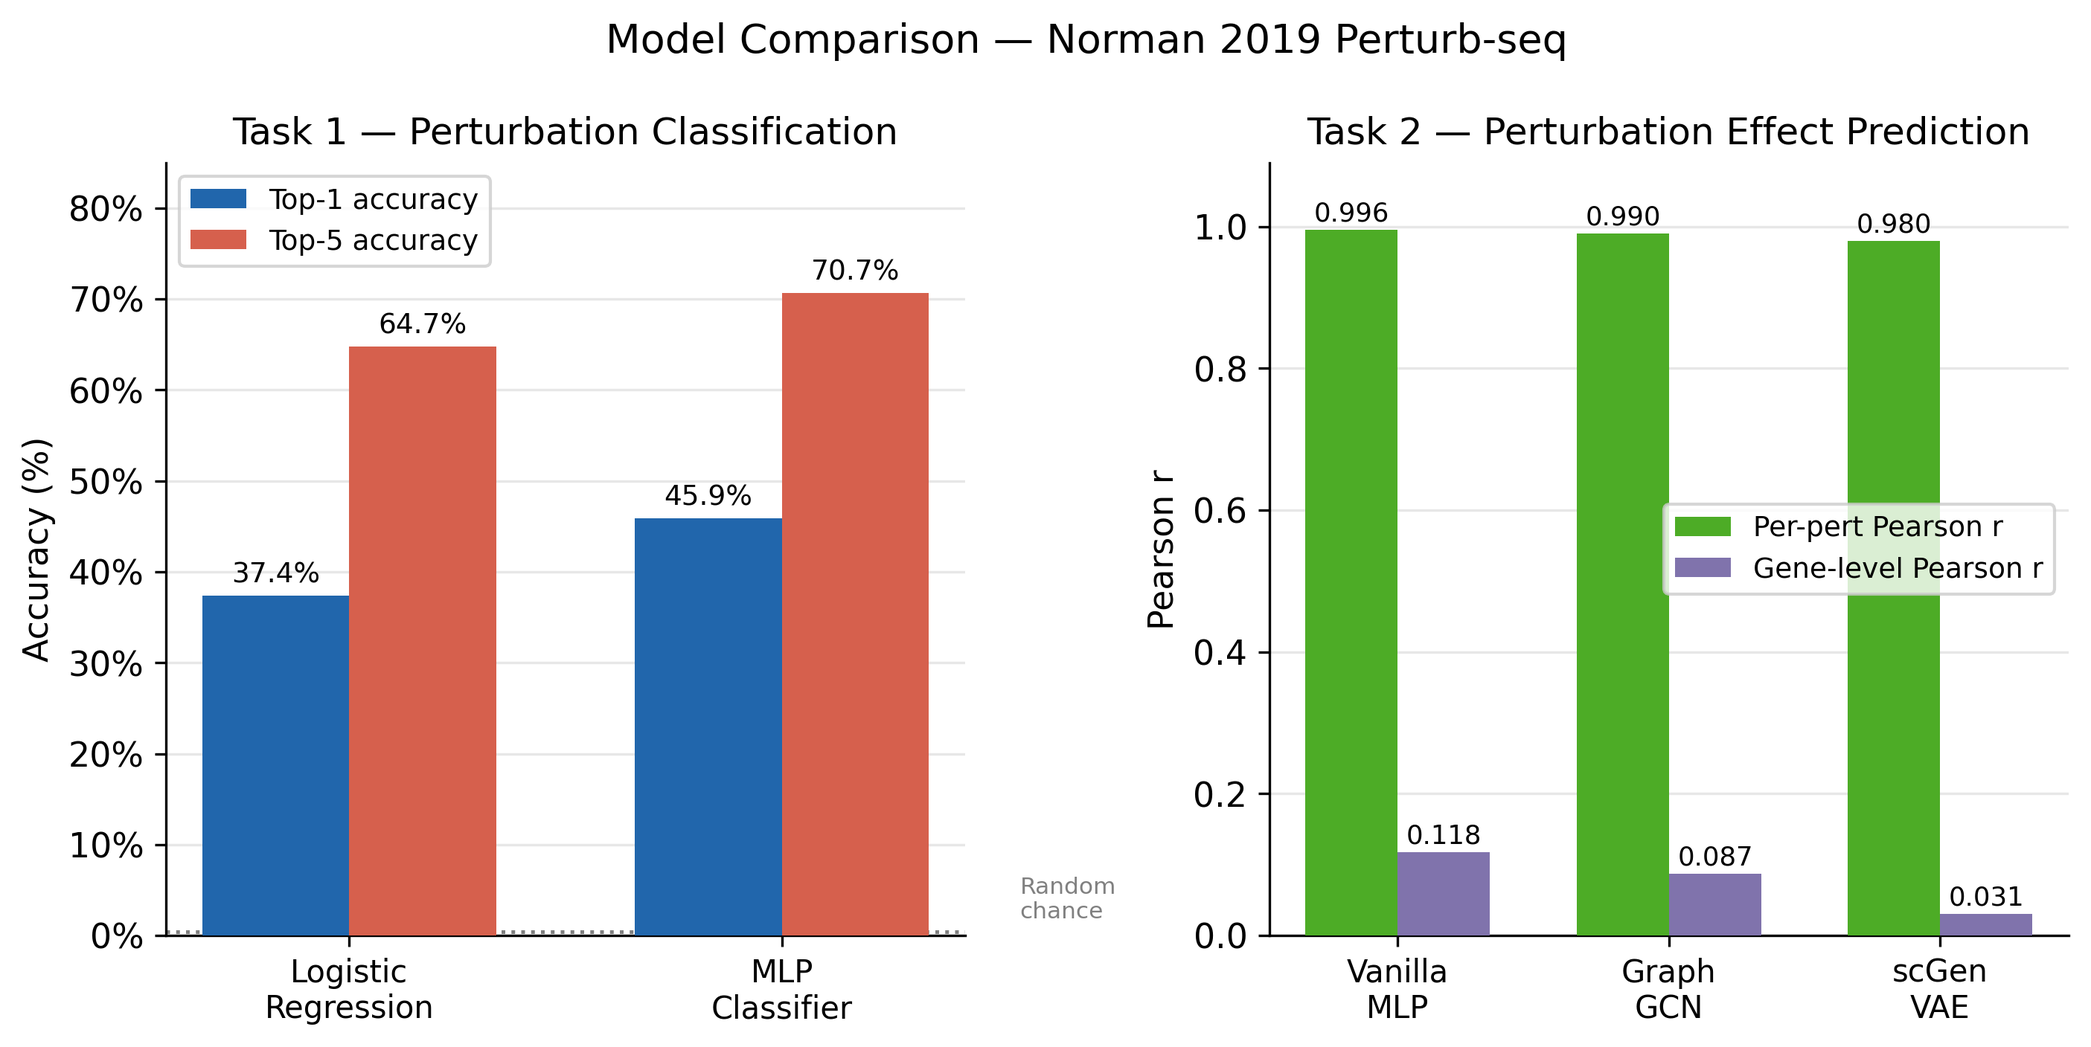
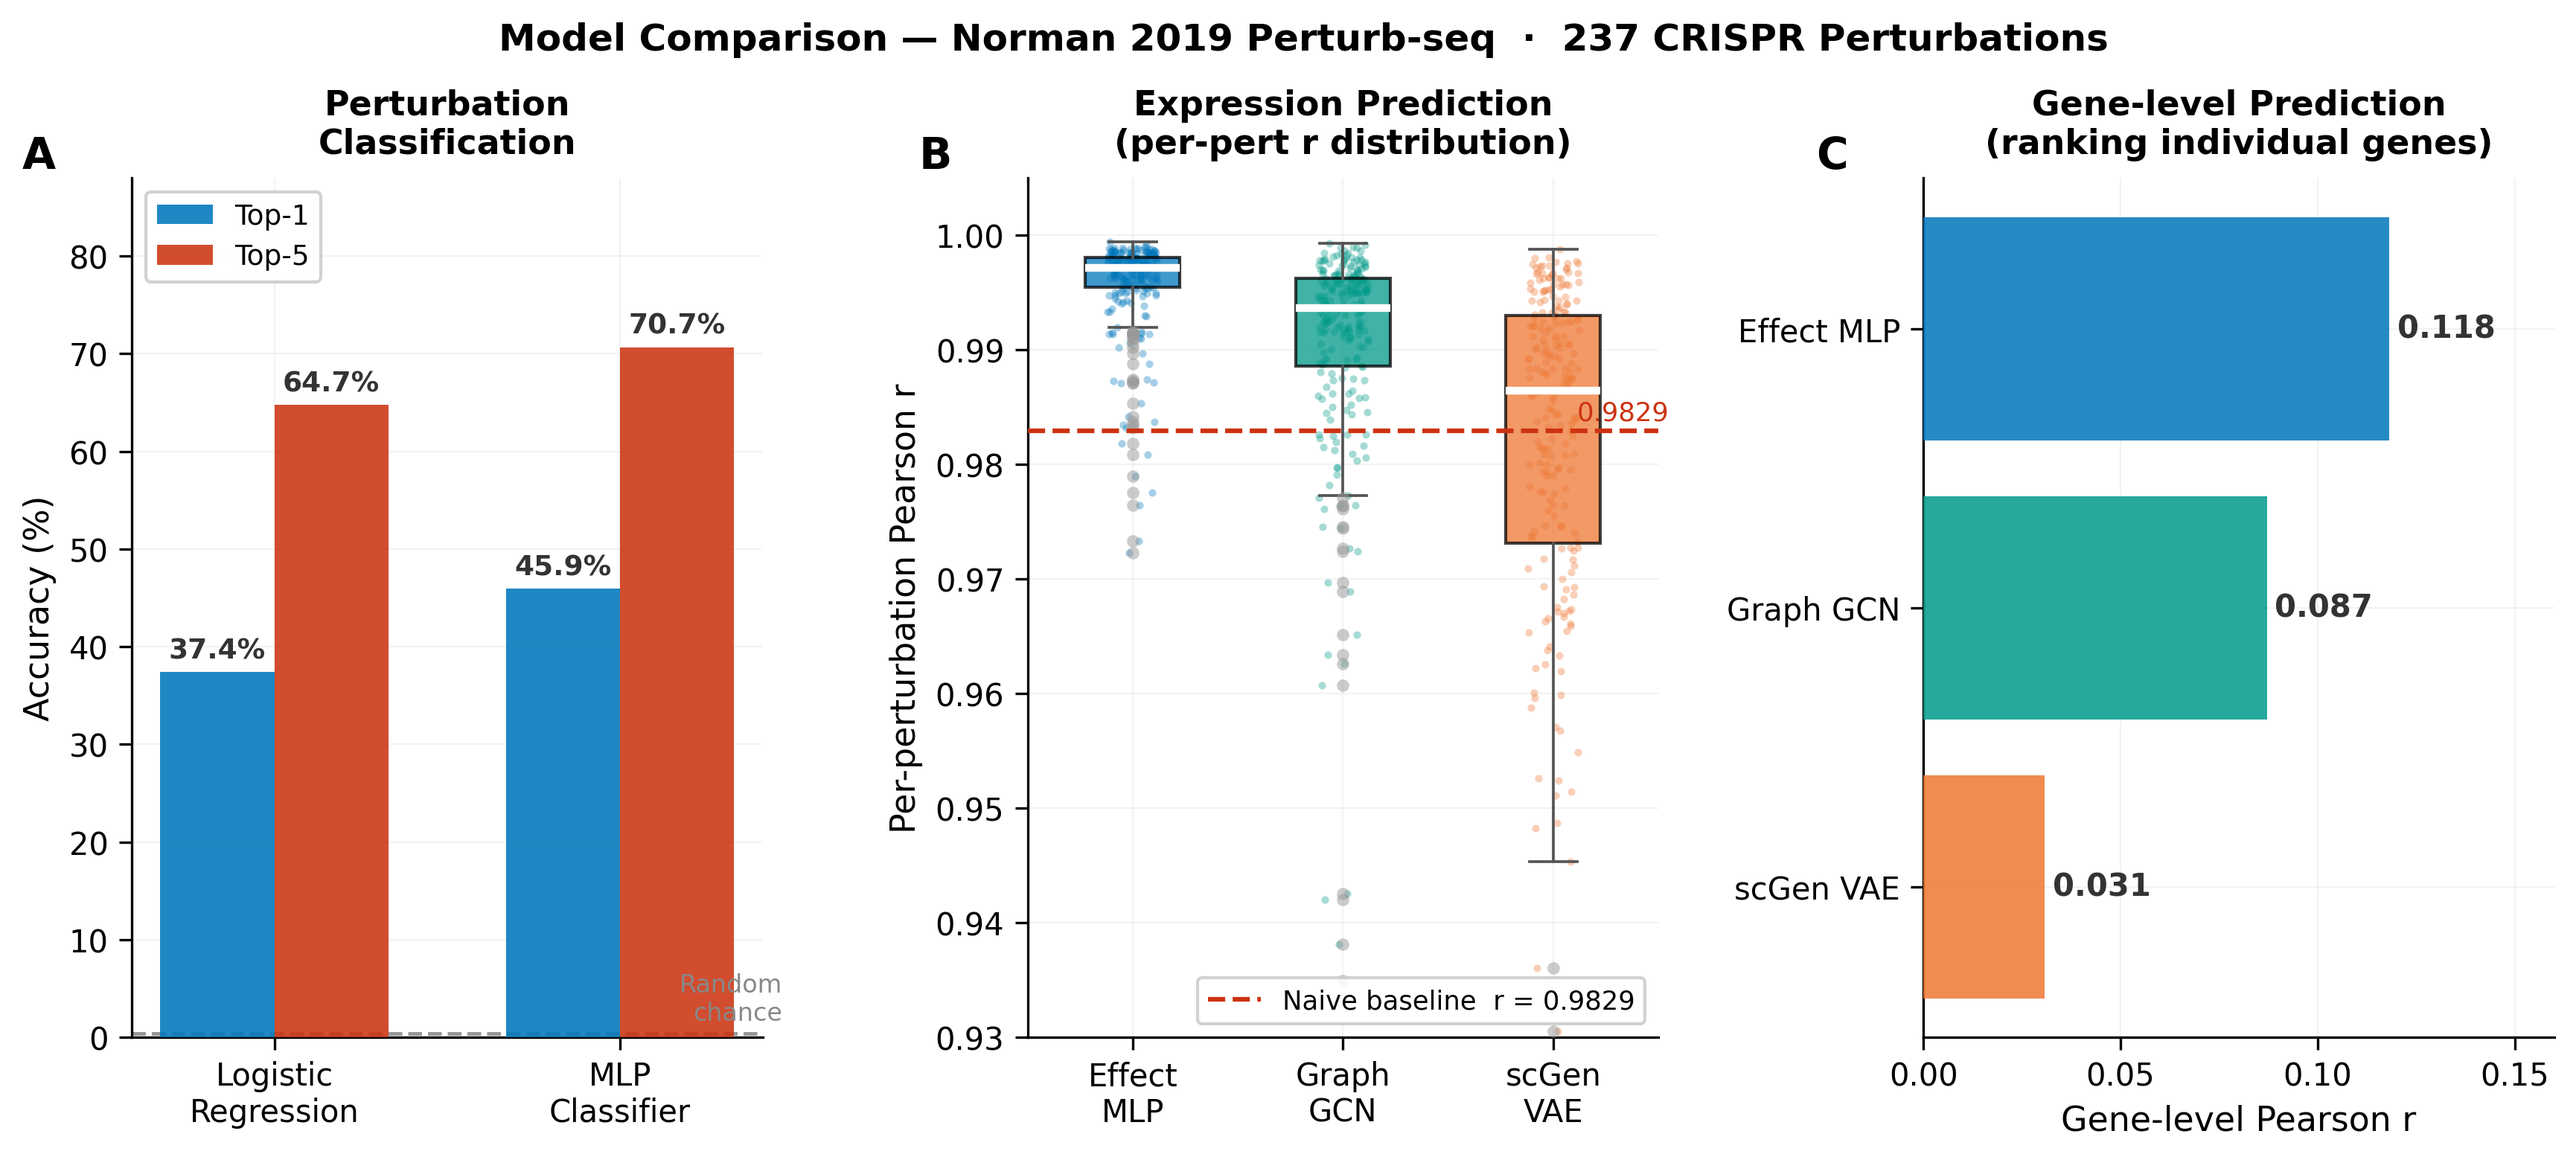
Redesign figures to publication standard with density colouring and distribution plots

diff --git a/src/analysis/visualize_results.py b/src/analysis/visualize_results.py
@@ -19,12 +19,13 @@ import matplotlib
 matplotlib.use("Agg")
 import matplotlib.pyplot as plt
 import matplotlib.ticker as mticker
+import matplotlib.patches as mpatches
 import numpy as np
 import scanpy as sc
 import scipy.sparse as sp
 import torch
 import torch.nn as nn
-from scipy.stats import pearsonr
+from scipy.stats import pearsonr, gaussian_kde
 
 PROJECT_ROOT = Path(__file__).resolve().parents[2]
 sys.path.insert(0, str(PROJECT_ROOT))
@@ -35,18 +36,43 @@ FIG_DIR.mkdir(parents=True, exist_ok=True)
 RES  = PROJECT_ROOT / "data" / "results"
 MODS = PROJECT_ROOT / "data" / "models"
 
-# ── Shared style ────────────────────────────────────────────────────────────
+# ── Publication-grade style (Nature / Cell Research standard) ───────────────
 plt.rcParams.update({
-    "font.family":        "sans-serif",
-    "font.size":          11,
-    "axes.spines.top":    False,
-    "axes.spines.right":  False,
-    "figure.dpi":         150,
-    "savefig.dpi":        300,
-    "savefig.bbox":       "tight",
+    "font.family":          "sans-serif",
+    "font.size":            11,
+    "axes.linewidth":       0.8,
+    "axes.spines.top":      False,
+    "axes.spines.right":    False,
+    "axes.grid":            True,
+    "grid.alpha":           0.25,
+    "grid.linewidth":       0.5,
+    "grid.color":           "#CCCCCC",
+    "xtick.major.width":    0.8,
+    "ytick.major.width":    0.8,
+    "xtick.major.size":     4,
+    "ytick.major.size":     4,
+    "xtick.labelsize":      10,
+    "ytick.labelsize":      10,
+    "figure.facecolor":     "white",
+    "axes.facecolor":       "white",
+    "savefig.dpi":          300,
+    "savefig.bbox":         "tight",
+    "savefig.facecolor":    "white",
+    "legend.frameon":       True,
+    "legend.framealpha":    0.9,
+    "legend.edgecolor":     "#CCCCCC",
+    "legend.fontsize":      9,
 })
-PALETTE = ["#2166AC", "#D6604D", "#4DAC26", "#8073AC",
-           "#E08214", "#018571", "#A6611A", "#80CDC1"]
+
+# Paul Tol "bright" palette — colorblind-friendly, Nature-journal standard
+TOL = ["#0077BB", "#CC3311", "#009988", "#EE7733",
+       "#AA3377", "#33BBEE", "#BBBBBB"]
+
+
+def add_panel_label(ax, label, x=-0.12, y=1.05):
+    """Add bold A/B/C panel label, standard for pharma publications."""
+    ax.text(x, y, label, transform=ax.transAxes,
+            fontsize=14, fontweight="bold", va="top", ha="right")
 
 # ════════════════════════════════════════════════════════════════════════════
 # Helpers
@@ -126,11 +152,10 @@ with torch.no_grad():
     z_ctrl, _ = model.encode(mean_ctrl_t)      # (1, 128) — fixed reference
 
 # ════════════════════════════════════════════════════════════════════════════
-# PLOT 1 — Predicted vs Actual mean gene expression (2×3 panel)
+# PLOT 1 — Density-coloured scatter: Predicted vs Observed (2×3 panel)
 # ════════════════════════════════════════════════════════════════════════════
 print("Generating Plot 1: pred_vs_real …")
 
-# Pick 6 perturbations spanning the full range of per-pert r values
 scgen_m = load_json("scgen_metrics.json")
 pert_r  = {
     p: v["pearson_r"]
@@ -144,13 +169,14 @@ selected = [
     for f in [0.02, 0.18, 0.35, 0.55, 0.75, 0.97]
 ]
 
-fig, axes = plt.subplots(2, 3, figsize=(13, 8.5),
-                          sharex=False, sharey=False)
-axes = axes.flatten()
+fig, axes = plt.subplots(2, 3, figsize=(13, 9), sharex=False, sharey=False)
+fig.patch.set_facecolor("white")
+axes_flat = axes.flatten()
+panel_labels = ["A", "B", "C", "D", "E", "F"]
 
-for i, (pert, ax) in enumerate(zip(selected, axes)):
+for i, (pert, ax) in enumerate(zip(selected, axes_flat)):
     mask     = perts_col == pert
-    mean_obs = X_all[mask].mean(axis=0)          # all 2000 genes
+    mean_obs = X_all[mask].mean(axis=0)
 
     pidx = torch.tensor([pert_to_idx[pert]], dtype=torch.long)
     with torch.no_grad():
@@ -158,38 +184,64 @@ for i, (pert, ax) in enumerate(zip(selected, axes)):
 
     r, _ = pearsonr(mean_pred, mean_obs)
 
-    ax.scatter(
-        mean_obs, mean_pred,
-        s=10, alpha=0.5, color=PALETTE[i],
-        linewidths=0, rasterized=True,
+    # KDE density colouring — standard in pharma/genomics publications
+    xy    = np.vstack([mean_obs, mean_pred])
+    z     = gaussian_kde(xy)(xy)
+    order = z.argsort()   # plot dense points on top
+
+    sc_plot = ax.scatter(
+        mean_obs[order], mean_pred[order],
+        c=z[order], cmap="YlOrRd",
+        s=12, alpha=0.85, linewidths=0, rasterized=True,
     )
 
     # Identity line
-    lo = min(mean_obs.min(), mean_pred.min()) - 0.05
-    hi = max(mean_obs.max(), mean_pred.max()) + 0.05
-    ax.plot([lo, hi], [lo, hi], "k--", lw=1, alpha=0.55, zorder=0)
+    lo = min(mean_obs.min(), mean_pred.min()) - 0.1
+    hi = max(mean_obs.max(), mean_pred.max()) + 0.1
+    ax.plot([lo, hi], [lo, hi], color="#444444", lw=1.2,
+            ls="--", alpha=0.6, zorder=0, label="Identity")
 
-    ax.set_title(f"{pert}\n$r$ = {r:.4f}", fontsize=10.5, fontweight="bold")
-    ax.set_xlabel("Observed mean expression", fontsize=9.5)
-    ax.set_ylabel("Predicted mean expression", fontsize=9.5)
-    ax.tick_params(labelsize=8.5)
-    ax.annotate(f"n = {int(mask.sum())} cells\n2 000 genes",
-                xy=(0.97, 0.04), xycoords="axes fraction",
-                ha="right", va="bottom", fontsize=8, color="#555")
+    # Styled r-value box (top-left)
+    ax.text(0.05, 0.95, f"$r$ = {r:.4f}",
+            transform=ax.transAxes, fontsize=10, fontweight="bold",
+            va="top", ha="left", color="#1A1A1A",
+            bbox=dict(boxstyle="round,pad=0.3", fc="white",
+                      ec="#CCCCCC", alpha=0.9))
+
+    # Cell/gene count (bottom-right, muted)
+    ax.text(0.97, 0.04,
+            f"n = {int(mask.sum()):,} cells  ·  2,000 genes",
+            transform=ax.transAxes, fontsize=8, va="bottom", ha="right",
+            color="#888888")
+
+    ax.set_title(pert, fontsize=10, fontweight="bold", pad=6)
+    ax.set_xlabel("Observed mean expression", fontsize=10)
+    ax.set_ylabel("Predicted mean expression", fontsize=10)
+    ax.set_xlim(lo, hi)
+    ax.set_ylim(lo, hi)
+
+    add_panel_label(ax, panel_labels[i])
+
+# Shared colorbar
+cbar_ax = fig.add_axes([1.01, 0.15, 0.015, 0.7])
+sm = plt.cm.ScalarMappable(cmap="YlOrRd")
+sm.set_array([])
+cb = fig.colorbar(sm, cax=cbar_ax)
+cb.set_label("Point density", fontsize=10)
+cb.ax.tick_params(labelsize=9)
 
 fig.suptitle(
-    "scGen VAE — Predicted vs Observed Mean Gene Expression\n"
-    "Six held-out perturbations spanning the full performance range",
-    fontsize=13, y=1.01,
+    "scGen VAE — Predicted vs Observed Mean Gene Expression",
+    fontsize=13, fontweight="bold", y=1.01,
 )
 plt.tight_layout()
 out1 = FIG_DIR / "pred_vs_real.png"
-fig.savefig(out1)
+fig.savefig(out1, bbox_inches="tight")
 plt.close(fig)
 print(f"  Saved → {out1}")
 
 # ════════════════════════════════════════════════════════════════════════════
-# PLOT 2 — Model comparison bar chart (two task groups)
+# PLOT 2 — Three-panel model comparison (pharma publication style)
 # ════════════════════════════════════════════════════════════════════════════
 print("Generating Plot 2: model_comparison …")
 
@@ -198,71 +250,124 @@ mlp_m   = load_json("mlp_metrics.json")
 eff_m   = load_json("perturbation_effect_metrics.json")
 graph_m = load_json("graph_model_metrics.json")
 
-# Group A — Classification (accuracy)
-clf_models  = ["Logistic\nRegression", "MLP\nClassifier"]
-clf_top1    = [bl_m["accuracy"],       mlp_m["accuracy"]]
-clf_top5    = [bl_m["top5_accuracy"],  mlp_m["top5_accuracy"]]
+# Extract per-perturbation r distributions (not just means)
+def pert_r_dist(metrics: dict) -> list[float]:
+    return [v["pearson_r"] for v in metrics["per_perturbation_eval"].values()
+            if not np.isnan(v["pearson_r"])]
 
-# Group B — Perturbation effect prediction (per-pert Pearson r)
-eff_models  = ["Vanilla\nMLP", "Graph\nGCN", "scGen\nVAE"]
-eff_r       = [
-    eff_m["mean_per_pert_pearson_r"],
-    graph_m["mean_per_pert_pearson_r"],
-    scgen_m["mean_per_pert_pearson_r"],
-]
-eff_gene_r  = [
-    eff_m["mean_gene_pearson_r"],
-    graph_m["mean_gene_pearson_r"],
-    scgen_m["mean_gene_pearson_r"],
-]
+eff_dist   = pert_r_dist(eff_m)
+graph_dist = pert_r_dist(graph_m)
+scgen_dist = pert_r_dist(scgen_m)
+naive_r    = 0.9829   # from baseline_naive.json
 
-fig, (ax1, ax2) = plt.subplots(1, 2, figsize=(11, 4.5),
-                                gridspec_kw={"wspace": 0.38})
+fig, (ax1, ax2, ax3) = plt.subplots(
+    1, 3, figsize=(14, 5),
+    gridspec_kw={"wspace": 0.42},
+)
+fig.patch.set_facecolor("white")
 
-# ── Left: Classification accuracy ──────────────────────────────────────────
-x1    = np.arange(len(clf_models))
-w     = 0.34
-bars1 = ax1.bar(x1 - w/2, [v * 100 for v in clf_top1], w,
-                label="Top-1 accuracy", color=PALETTE[0], zorder=3)
-bars2 = ax1.bar(x1 + w/2, [v * 100 for v in clf_top5], w,
-                label="Top-5 accuracy", color=PALETTE[1], zorder=3)
+# ── Panel A: Classification accuracy ───────────────────────────────────────
+clf_labels = ["Logistic\nRegression", "MLP\nClassifier"]
+top1 = [bl_m["accuracy"] * 100, mlp_m["accuracy"] * 100]
+top5 = [bl_m["top5_accuracy"] * 100, mlp_m["top5_accuracy"] * 100]
 
-for bar in list(bars1) + list(bars2):
+x = np.arange(len(clf_labels))
+w = 0.33
+b1 = ax1.bar(x - w/2, top1, w, color=TOL[0], label="Top-1", zorder=3,
+             linewidth=0, alpha=0.88)
+b2 = ax1.bar(x + w/2, top5, w, color=TOL[1], label="Top-5", zorder=3,
+             linewidth=0, alpha=0.88)
+
+for bar in list(b1) + list(b2):
     h = bar.get_height()
     ax1.text(bar.get_x() + bar.get_width() / 2, h + 0.8,
-             f"{h:.1f}%", ha="center", va="bottom", fontsize=9)
+             f"{h:.1f}%", ha="center", va="bottom", fontsize=9,
+             fontweight="bold", color="#333")
 
-ax1.set_xticks(x1); ax1.set_xticklabels(clf_models, fontsize=10)
+# Random-chance reference
+ax1.axhline(100 / 237, color="#999", ls="--", lw=1.2, zorder=2)
+ax1.text(1.47, 100 / 237 + 0.8, "Random\nchance",
+         fontsize=8, color="#888", va="bottom", ha="right")
+
+ax1.set_xticks(x)
+ax1.set_xticklabels(clf_labels, fontsize=10)
 ax1.set_ylabel("Accuracy (%)", fontsize=11)
-ax1.set_title("Task 1 — Perturbation Classification", fontsize=12)
-ax1.set_ylim(0, 85)
-ax1.yaxis.set_major_formatter(mticker.FormatStrFormatter("%g%%"))
-ax1.legend(fontsize=9)
-ax1.grid(axis="y", alpha=0.3, zorder=0)
-ax1.axhline(100 / 237, color="gray", ls=":", lw=1.2, label="Random")
-ax1.text(1.55, 100 / 237 + 1, "Random\nchance", fontsize=7.5, color="gray", va="bottom")
+ax1.set_ylim(0, 88)
+ax1.set_title("Perturbation\nClassification", fontsize=11, fontweight="bold", pad=8)
+ax1.legend(loc="upper left", fontsize=9)
+add_panel_label(ax1, "A")
 
-# ── Right: Per-perturbation Pearson r ──────────────────────────────────────
-x2 = np.arange(len(eff_models))
-bars3 = ax2.bar(x2 - w/2, eff_r,      w, label="Per-pert Pearson r",  color=PALETTE[2], zorder=3)
-bars4 = ax2.bar(x2 + w/2, eff_gene_r, w, label="Gene-level Pearson r", color=PALETTE[3], zorder=3)
+# ── Panel B: Per-perturbation Pearson r — DISTRIBUTION (box + strip) ───────
+model_names  = ["Effect\nMLP", "Graph\nGCN", "scGen\nVAE"]
+model_colors = [TOL[0], TOL[2], TOL[3]]
+dists        = [eff_dist, graph_dist, scgen_dist]
 
-for bar in list(bars3) + list(bars4):
-    h = bar.get_height()
-    ax2.text(bar.get_x() + bar.get_width() / 2, h + 0.005,
-             f"{h:.3f}", ha="center", va="bottom", fontsize=8.5)
+bp = ax2.boxplot(
+    dists,
+    patch_artist=True,
+    widths=0.45,
+    medianprops=dict(color="white", linewidth=2.5),
+    whiskerprops=dict(color="#555", linewidth=0.9),
+    capprops=dict(color="#555", linewidth=0.9),
+    flierprops=dict(marker="o", markersize=4, alpha=0.5,
+                    markerfacecolor="#999", markeredgewidth=0),
+    zorder=3,
+)
+for patch, color in zip(bp["boxes"], model_colors):
+    patch.set_facecolor(color)
+    patch.set_alpha(0.75)
 
-ax2.set_xticks(x2); ax2.set_xticklabels(eff_models, fontsize=10)
-ax2.set_ylabel("Pearson r", fontsize=11)
-ax2.set_title("Task 2 — Perturbation Effect Prediction", fontsize=12)
-ax2.set_ylim(0, 1.09)
-ax2.legend(fontsize=9)
-ax2.grid(axis="y", alpha=0.3, zorder=0)
+# Jitter strip
+rng = np.random.default_rng(42)
+for xi, (dist, color) in enumerate(zip(dists, model_colors), start=1):
+    jitter = rng.uniform(-0.12, 0.12, len(dist))
+    ax2.scatter(np.full(len(dist), xi) + jitter, dist,
+                s=6, alpha=0.35, color=color, linewidths=0, zorder=2)
 
-plt.suptitle("Model Comparison — Norman 2019 Perturb-seq", fontsize=13, y=1.02)
+# Naive baseline reference
+ax2.axhline(naive_r, color="#CC3311", ls="--", lw=1.5, zorder=4,
+            label=f"Naive baseline  r = {naive_r}")
+ax2.text(3.55, naive_r + 0.0005, f"{naive_r}", fontsize=8.5,
+         color="#CC3311", va="bottom", ha="right")
+
+ax2.set_xticks([1, 2, 3])
+ax2.set_xticklabels(model_names, fontsize=10)
+ax2.set_ylabel("Per-perturbation Pearson r", fontsize=11)
+ax2.set_ylim(0.93, 1.005)
+ax2.set_title("Expression Prediction\n(per-pert r distribution)", fontsize=11,
+              fontweight="bold", pad=8)
+ax2.legend(loc="lower right", fontsize=8.5)
+add_panel_label(ax2, "B")
+
+# ── Panel C: Gene-level Pearson r — horizontal bars ────────────────────────
+gene_r_vals  = [eff_m["mean_gene_pearson_r"],
+                graph_m["mean_gene_pearson_r"],
+                scgen_m["mean_gene_pearson_r"]]
+gene_labels  = ["Effect MLP", "Graph GCN", "scGen VAE"]
+
+y = np.arange(len(gene_labels))
+bars = ax3.barh(y, gene_r_vals, color=model_colors, alpha=0.85,
+                linewidth=0, zorder=3)
+
+for bar, val in zip(bars, gene_r_vals):
+    ax3.text(val + 0.002, bar.get_y() + bar.get_height() / 2,
+             f"{val:.3f}", va="center", ha="left",
+             fontsize=10, fontweight="bold", color="#333")
+
+ax3.set_yticks(y)
+ax3.set_yticklabels(gene_labels, fontsize=10)
+ax3.set_xlabel("Gene-level Pearson r", fontsize=11)
+ax3.set_xlim(0, 0.16)
+ax3.set_title("Gene-level Prediction\n(ranking individual genes)", fontsize=11,
+              fontweight="bold", pad=8)
+ax3.invert_yaxis()
+add_panel_label(ax3, "C")
+
+fig.suptitle("Model Comparison — Norman 2019 Perturb-seq  ·  237 CRISPR Perturbations",
+             fontsize=12, fontweight="bold", y=1.02)
 plt.tight_layout()
 out2 = FIG_DIR / "model_comparison.png"
-fig.savefig(out2, bbox_inches="tight")
+fig.savefig(out2)
 plt.close(fig)
 print(f"  Saved → {out2}")
 
@@ -287,12 +392,12 @@ fig, (ax_top, ax_bot) = plt.subplots(
 )
 
 # ── Top: per-perturbation dot strip ────────────────────────────────────────
-ax_top.scatter(xx, r_bl, s=48, marker="s", color=PALETTE[3], alpha=0.85,
+ax_top.scatter(xx, r_bl, s=40, marker="s", color=TOL[6], alpha=0.75,
                label="Baseline (nearest-seen Δ expr)", zorder=3)
-ax_top.scatter(xx, r_zs, s=52, marker="o", color=PALETTE[0], alpha=0.85,
+ax_top.scatter(xx, r_zs, s=48, marker="o", color=TOL[0], alpha=0.85,
                label="VAE zero-shot (nearest-seen emb)", zorder=4)
-ax_top.scatter(xx, r_or, s=28, marker="^", color=PALETTE[2], alpha=0.75,
-               label="VAE oracle (true emb, upper bound)", zorder=5)
+ax_top.scatter(xx, r_or, s=28, marker="^", color=TOL[2], alpha=0.75,
+               label="VAE oracle (true emb — upper bound)", zorder=5)
 
 # Annotate the hardest and easiest
 for idx, p in [(0, perts_sorted[0]), (-1, perts_sorted[-1])]:
@@ -334,7 +439,7 @@ offsets  = np.linspace(-(n_met - 1) * bw / 2, (n_met - 1) * bw / 2, n_met)
 x_cond   = np.arange(n_cond)
 
 for k, ((label, vals), offset, color) in enumerate(
-    zip(metrics_to_show.items(), offsets, PALETTE[4:])
+    zip(metrics_to_show.items(), offsets, TOL[4:])
 ):
     bars = ax_bot.bar(x_cond + offset, vals, bw,
                       label=label, color=color, zorder=3)
